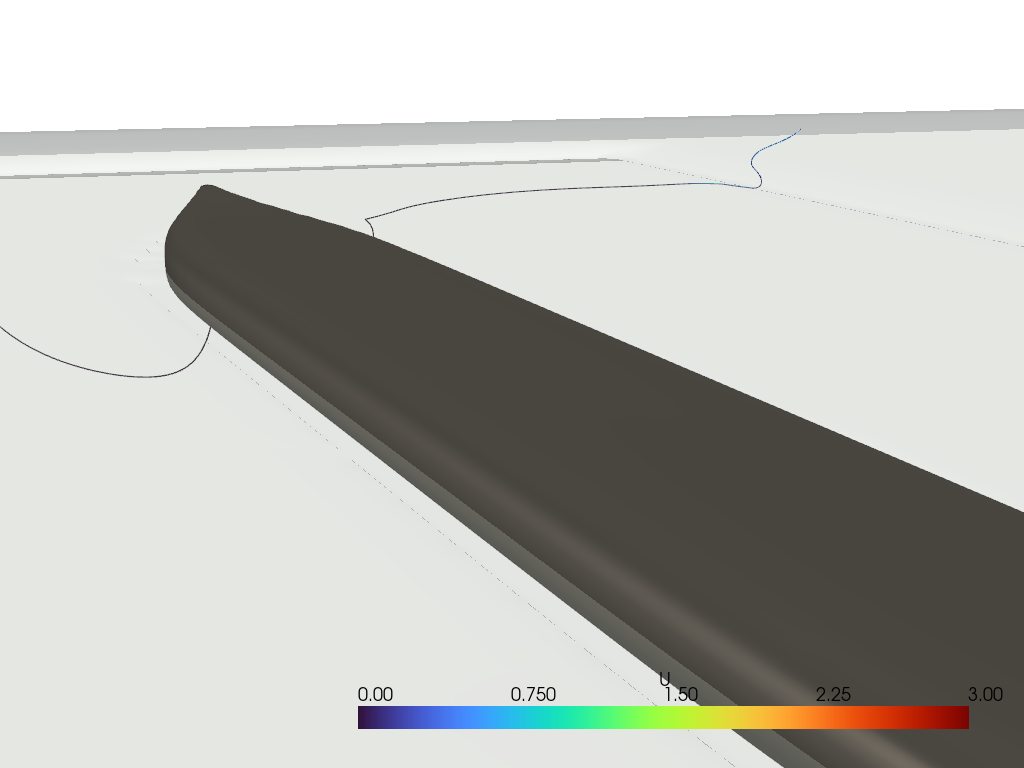
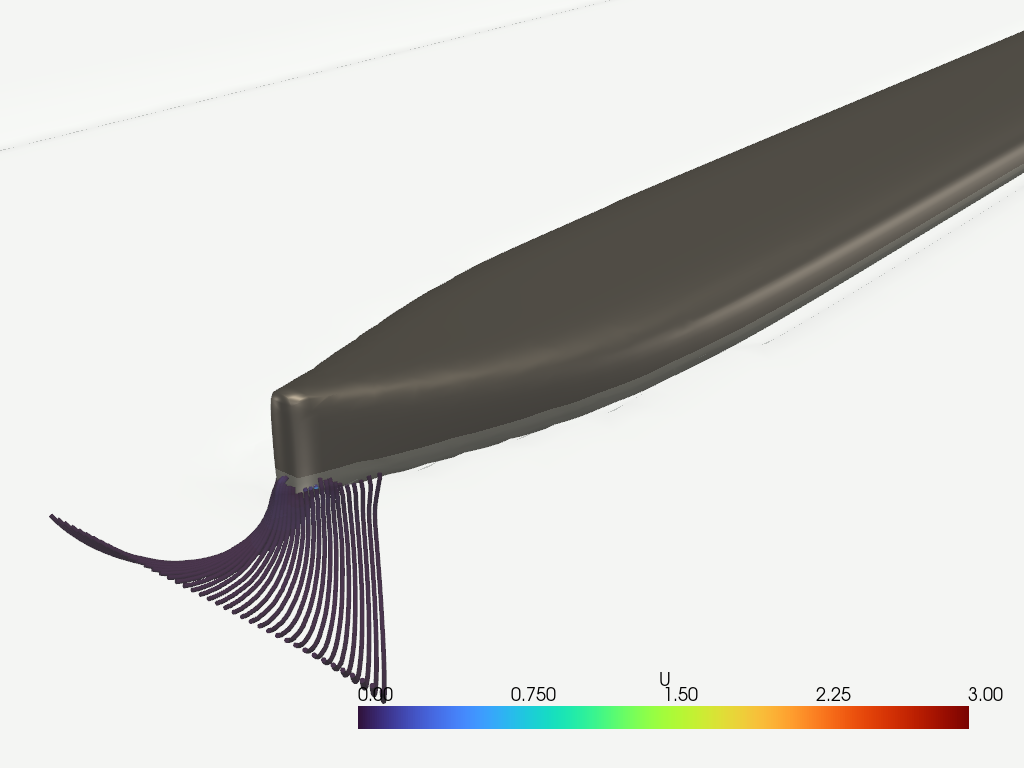
docs: refine visualization with streamlines and zoom-out

diff --git a/scripts/visualize_flow.py b/scripts/visualize_flow.py
@@ -1,0 +1,89 @@
+
+import pyvista as pv
+import argparse
+import os
+import glob
+
+def visualize(case_dir, output_file="docs/showcase_streamlines.png"):
+    print(f"Searching for VTK data in: {case_dir}")
+    
+    # 1. Load the Hull Surface
+    # Recursive search for hull files
+    boundary_dir = os.path.join(case_dir, "VTK")
+    hull_files = sorted(glob.glob(os.path.join(boundary_dir, "**", "hull.vtp"), recursive=True))
+    if not hull_files:
+        hull_files = sorted(glob.glob(os.path.join(boundary_dir, "**", "hull_*.vtp"), recursive=True))
+
+    if not hull_files:
+        print("Error: Could not find hull.vtp files")
+        return
+    else:
+        hull_file = hull_files[-1] # Last timestep
+        
+    print(f"Loading Hull: {hull_file}")
+    hull = pv.read(hull_file)
+    
+    # 2. Load the Internal Field (Fluid)
+    internal_files = sorted(glob.glob(os.path.join(boundary_dir, "**", "internal.vtu"), recursive=True))
+    if not internal_files:
+        internal_files = sorted(glob.glob(os.path.join(boundary_dir, "**", "internal_*.vtu"), recursive=True))
+
+    if not internal_files:
+        print("Error: Could not find internal.vtu files")
+        return
+    internal_file = internal_files[-1]
+    print(f"Loading Internal Field: {internal_file}")
+    fluid = pv.read(internal_file)
+    
+    # 3. Create Streamlines
+    # Use U for streamlines
+    fluid.set_active_vectors("U")
+    
+    # Seed a line source in front of the hull
+    # User request: depth -2m, width -10 to +10m.
+    # We place it slightly upstream of the hull min-x
+    b = hull.bounds
+    upstream_x = b[0] - 5
+    
+    streamlines = fluid.streamlines(
+        pointa=(upstream_x, -10, -2),
+        pointb=(upstream_x, 10, -2),
+        n_points=40,
+        integration_direction='forward',
+        max_time=100.0
+    )
+    
+    # 4. Plotting
+    plotter = pv.Plotter(off_screen=True)
+    plotter.add_mesh(hull, color="tan", pbr=True, metallic=0.5, smooth_shading=True)
+    plotter.add_mesh(streamlines.tube(radius=0.1), scalars="U", cmap="turbo", clim=[0, 3])
+    
+    # Add water surface (alpha.water = 0.5 contour)
+    try:
+        # Only show water surface near the hull to avoid clutter
+        water_surface = fluid.contour([0.5], scalars="alpha.water")
+        plotter.add_mesh(water_surface, color="azure", opacity=0.2, smooth_shading=True)
+    except Exception as e:
+        print(f"Could not extract water surface: {e}")
+
+    # Camera setup - User requested "Zoom out"
+    # Position camera to see the bow and flow
+    # Center focus on seed area + some offset
+    center = [upstream_x + 20, 0, 0] 
+    plotter.camera_position = [
+        (upstream_x - 30, -40, 30), # Upstream-Side-Top view
+        center,                     # Focus near bow
+        (0, 0, 1)                   # Up
+    ]
+    # No explicit zoom (default is usually fit or 1.0)
+    
+    print(f"Saving to {output_file}")
+    plotter.screenshot(output_file)
+    
+if __name__ == "__main__":
+    parser = argparse.ArgumentParser()
+    parser.add_argument("--case", default="verification_run/showcase")
+    parser.add_argument("--output", default="docs/showcase_streamlines.png")
+    args = parser.parse_args()
+    
+    visualize(args.case, args.output)
